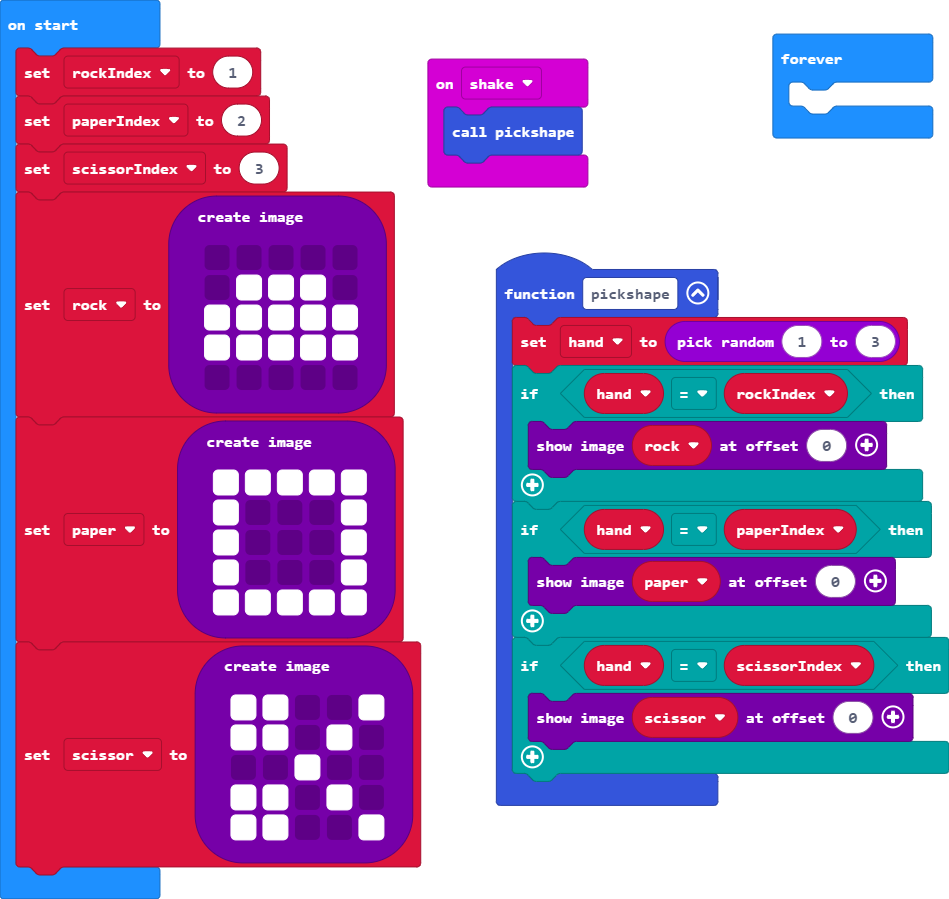
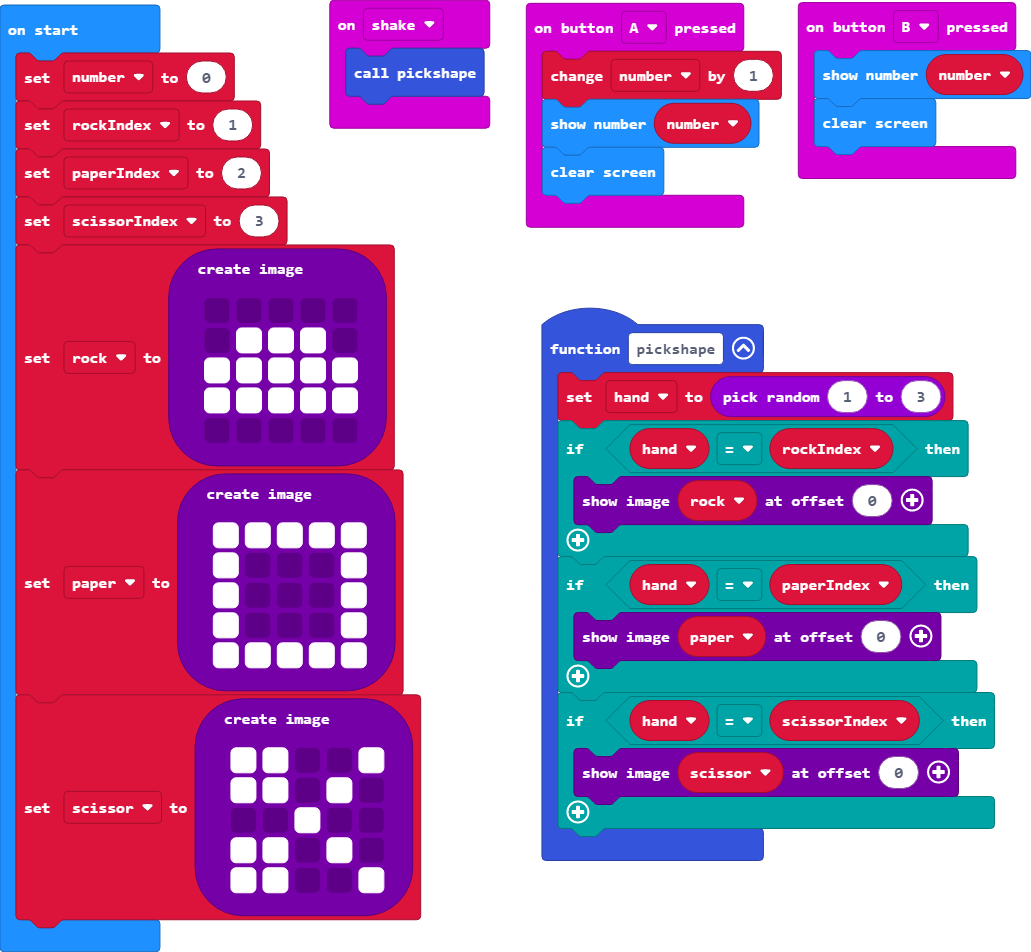
Update main.blocks, main.ts

diff --git a/main.ts b/main.ts
@@ -1,3 +1,12 @@
+input.onButtonPressed(Button.A, function () {
+    number += 1
+    basic.showNumber(number)
+    basic.clearScreen()
+})
+input.onButtonPressed(Button.B, function () {
+    basic.showNumber(number)
+    basic.clearScreen()
+})
 input.onGesture(Gesture.Shake, function () {
     pickshape()
 })
@@ -20,6 +29,8 @@ let rock: Image = null
 let scissorIndex = 0
 let paperIndex = 0
 let rockIndex = 0
+let number = 0
+number = 0
 rockIndex = 1
 paperIndex = 2
 scissorIndex = 3
@@ -44,6 +55,3 @@ scissor = images.createImage(`
     # # . # .
     # # . . #
     `)
-basic.forever(function () {
-	
-})
